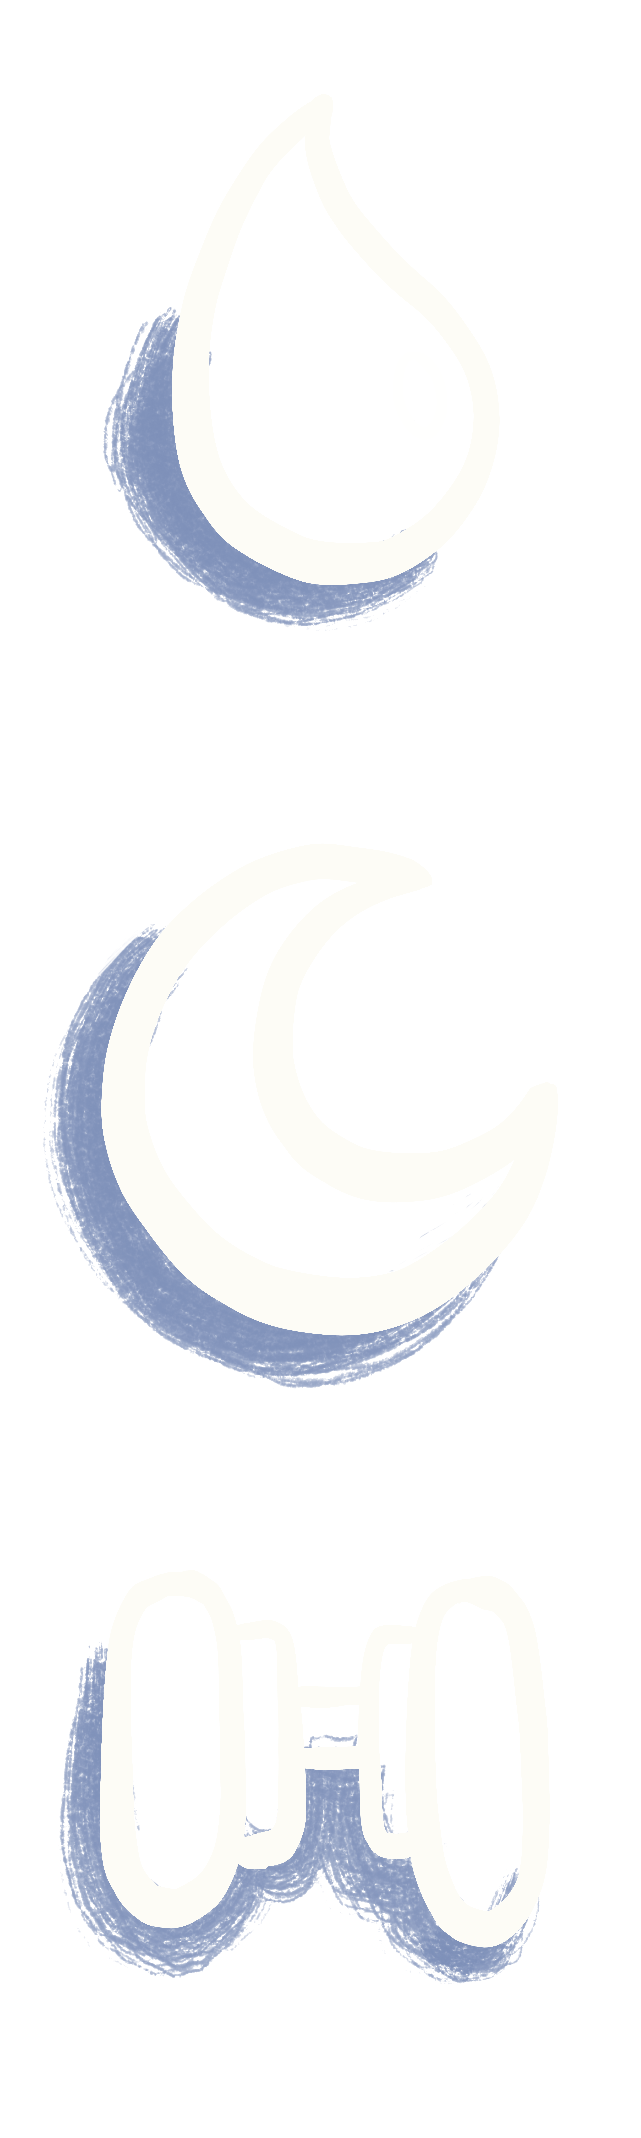
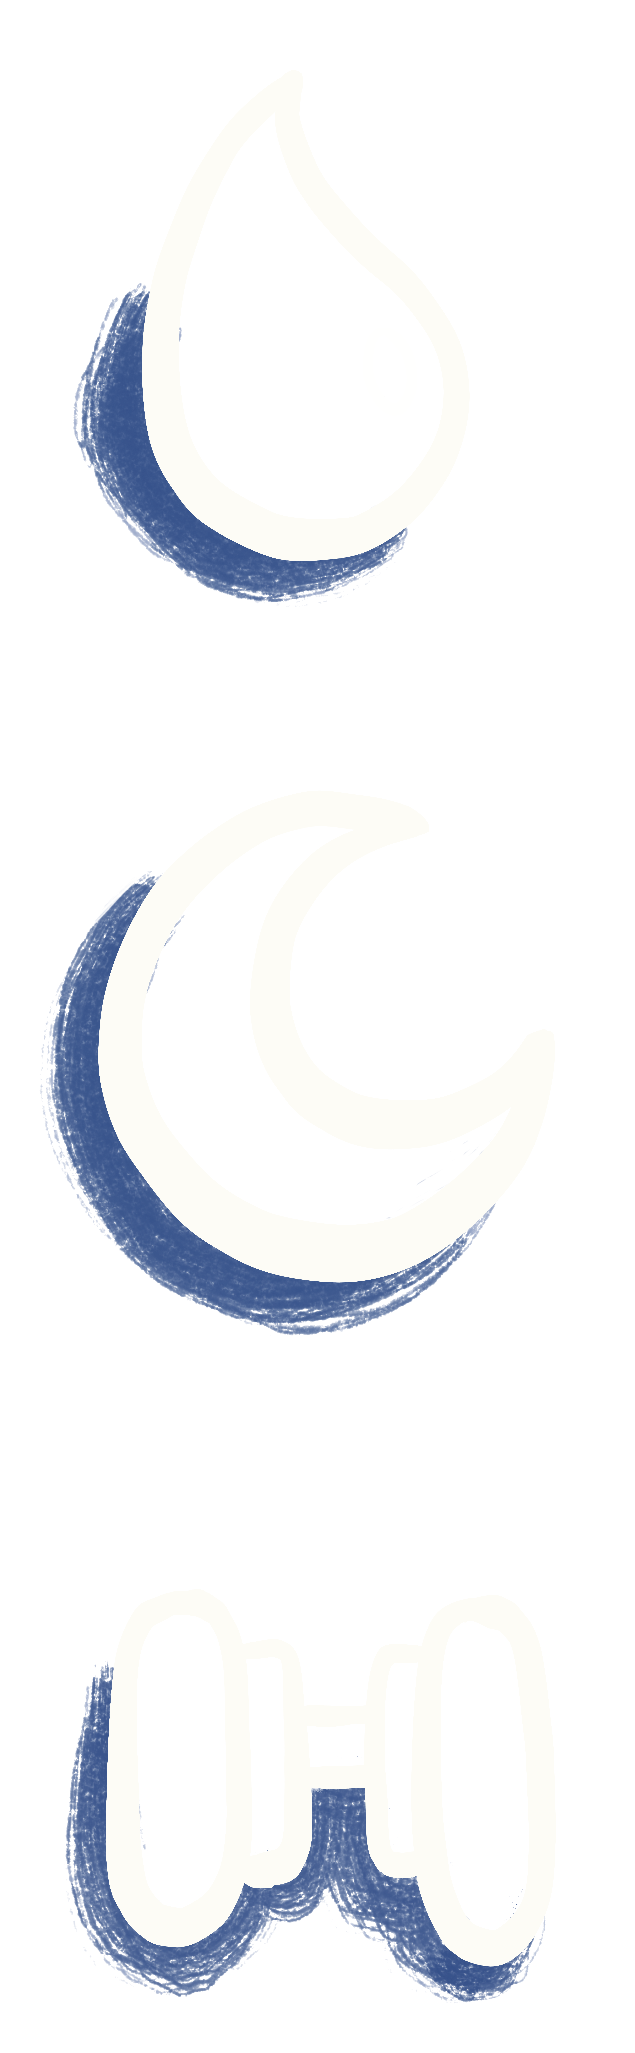
style changes

Changed region(s): [[0.0898, 0.7482, 0.8378, 0.9976], [0.0598, 0.4053, 0.748, 0.6547], [0.1197, 0.1247, 0.6882, 0.3117]]

diff --git a/screens/HomeScreen.js b/screens/HomeScreen.js
@@ -151,48 +151,52 @@ export default function HomeScreen() {
     return (
             <View style={styles.container}>
 
-                <Image source = {require("../images/today.png")} style = {{width: "45%", height: "15%", alignSelf: "center", }} />
+                <Image source = {require("../images/today.png")} style = {{width: "45%", height: "15%", alignSelf: "auto", }} />
+                <View style = {styles.everything}>
+                <Image source = {require("../images/three_elements.png")} style = {{width: "20%", height: "100%", alignSelf: "flex_start", zIndex: 5,}} />
+                    <View style = {styles.barContainer}>
+                        <TouchableOpacity
+                            onPress = {() => setToggleWaterModal(true)}>
+                            <ProgressBar
+                                progress = {GetPercentageWater()}
+                                height = {120}
+                                width = {360}
+                                borderRadius = {40}
+                                borderColor = {`#34457E`}
+                                color = {`#7A8DCC`}
+                                unfilledColor = {`#3D539C`}
+                            />
+                        </TouchableOpacity>
 
-                <TouchableOpacity
-                    onPress = {() => setToggleWaterModal(true)}>
-                    <ProgressBar
-                        progress = {GetPercentageWater()}
-                        height = {120}
-                        width = {360}
-                        borderRadius = {40}
-                        borderColor = {`#34457E`}
-                        color = {`#7A8DCC`}
-                        unfilledColor = {`#3D539C`}
-                    />
-                </TouchableOpacity>
+                        <TouchableOpacity
+                            style = {styles.midBar}
+                            onPress = {() => setToggleSleepModal(true)}>
+                            <ProgressBar
+                                progress = {GetPercentageSleep()}
+                                height = {120}
+                                width = {360}
+                                borderRadius = {40}
+                                borderColor = {`#34457E`}
+                                color = {`#7A8DCC`}
+                                unfilledColor = {`#3D539C`}
+                            />
+                        </TouchableOpacity>
 
-                <TouchableOpacity
-                    style = {styles.midBar}
-                    onPress = {() => setToggleSleepModal(true)}>
-                    <ProgressBar
-                        progress = {GetPercentageSleep()}
-                        height = {120}
-                        width = {360}
-                        borderRadius = {40}
-                        borderColor = {`#34457E`}
-                        color = {`#7A8DCC`}
-                        unfilledColor = {`#3D539C`}
-                    />
-                </TouchableOpacity>
-
-                <TouchableOpacity
-                    style = {styles.botBar}
-                    onPress = {() => setToggleExerciseModal(true)}>
-                    <ProgressBar
-                        progress = {GetPercentageExercise()}
-                        height = {120}
-                        width = {360}
-                        borderRadius = {40}
-                        borderColor = {`#34457E`}
-                        color = {`#7A8DCC`}
-                        unfilledColor = {`#3D539C`}
-                    />
-                </TouchableOpacity>
+                        <TouchableOpacity
+                            style = {styles.botBar}
+                            onPress = {() => setToggleExerciseModal(true)}>
+                            <ProgressBar
+                                progress = {GetPercentageExercise()}
+                                height = {120}
+                                width = {360}
+                                borderRadius = {40}
+                                borderColor = {`#34457E`}
+                                color = {`#7A8DCC`}
+                                unfilledColor = {`#3D539C`}
+                            />
+                        </TouchableOpacity>
+                    </View>
+                </View>
 
                 <WaterModal
                     visible = {toggleWaterModal}

diff --git a/styles/ProfileScreenStyles.js b/styles/ProfileScreenStyles.js
@@ -14,7 +14,8 @@ export default StyleSheet.create({
         paddingVertical: 12,
         borderBottomWidth: 50,
         color: "white",
-        fontSize: 32.
+        fontSize: 32,
+        fontFamily: "Chalkboard SE",
     },
     header2: {
         flexDirection: "row",
@@ -23,13 +24,15 @@ export default StyleSheet.create({
         paddingVertical: 12,
         borderBottomWidth: 50,
         color: "blue",
-        fontSize: 32.
+        fontSize: 32,
+        fontFamily: "Chalkboard SE"
     },
     regText: {
         margin: 8,
         flexDirection: "row",
         fontSize: 15, 
         color: 'white',
+        fontFamily: "Chalkboard SE",
     },
     fullName: {
         alignSelf: "center",
@@ -38,6 +41,7 @@ export default StyleSheet.create({
         marginTop: 0,
         margin: 8,
         color: 'white',
+        fontFamily: "Chalkboard SE",
     },
     changeContainer: {
         fontSize: 20,

diff --git a/styles/SleepModalStyles.js b/styles/SleepModalStyles.js
@@ -41,10 +41,11 @@ export default StyleSheet.create({
         marginTop: "50%",
     },
     waterText: {
-        fontSize: 20,
+        fontSize: 22,
         alignSelf: "center",
         color: "black",
         fontWeight: "500",
+        fontFamily: "Chalkboard SE",
     },
     backgroundImage: {
         flex: 1,

diff --git a/styles/HomeScreenStyles.js b/styles/HomeScreenStyles.js
@@ -16,4 +16,12 @@ export default StyleSheet.create({
     botBar: {
         marginTop: "2%",
     },
+    barContainer: {
+        justifyContent: "center",
+        marginLeft: "-25%",
+    },
+    everything: {
+        flexDirection: "row", 
+    },
+
 })
